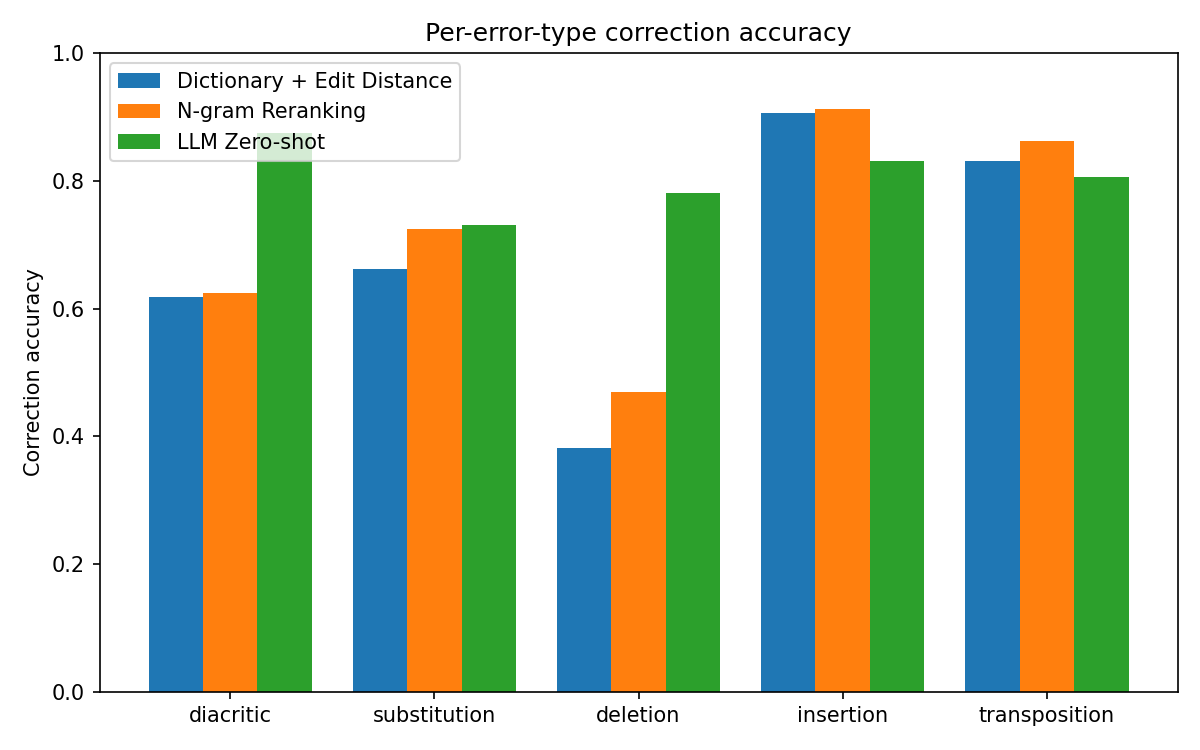
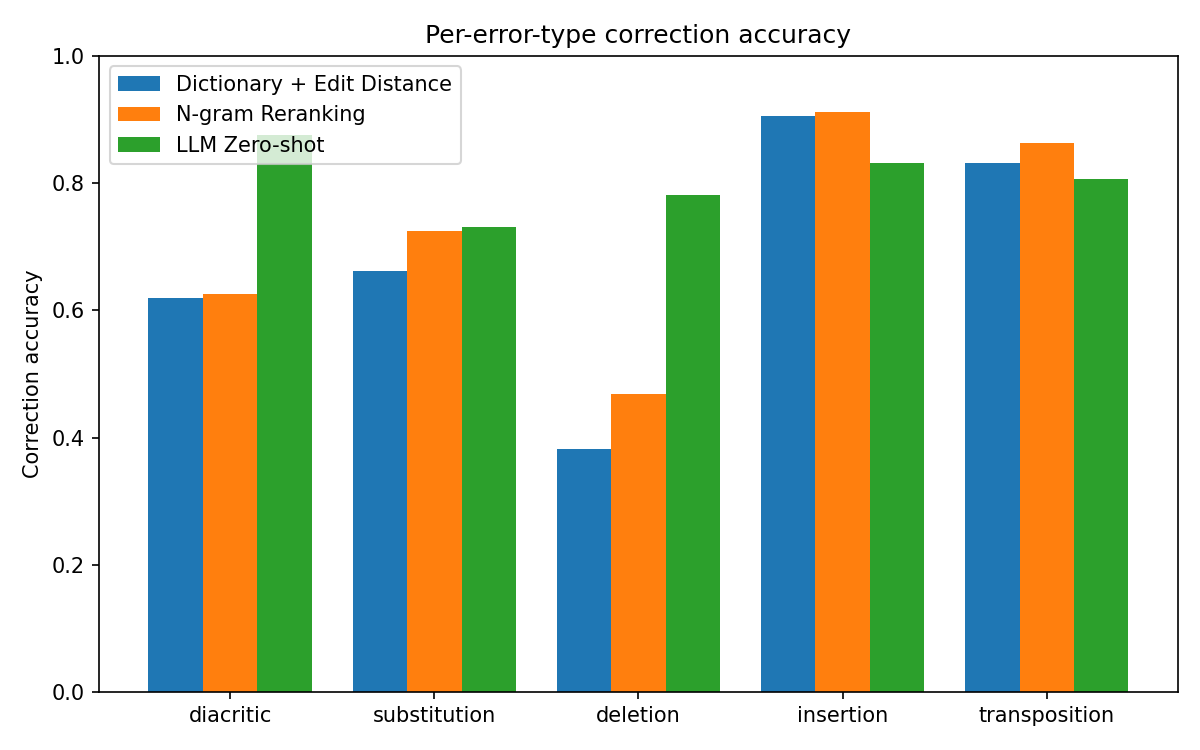
fix(*): clean up

diff --git a/results/error_analysis.md b/results/error_analysis.md
@@ -1,0 +1,303 @@
+# Error analysis
+
+## (a) Cases only the LLM got right
+
+**Example 1**
+
+- corrupted: `Naime, kao metamorfmafus, ona je mogla da promeni svoj fizički izgled po volji, bez potrebe da koristi napitak lii čarolije.`
+- original: `Naime, kao metamorfmafus, ona je mogla da promeni svoj fizički izgled po volji, bez potrebe da koristi napitak ili čarolije.`
+- error: `lii` → should be `ili` (type: transposition)
+- LLM predicted: `Naime, kao metamorfmafs, ona je mogla da promeni svoj fizički izgled po volji, bez potrebe da koristi napitak ili čarolije.`
+
+**Example 2**
+
+- corrupted: `Postojalo je od VI do X veka, kada je ušlo u sastavb jedinstvene Engleske države.`
+- original: `Postojalo je od VI do X veka, kada je ušlo u sastav jedinstvene Engleske države.`
+- error: `sastavb` → should be `sastav` (type: insertion)
+- LLM predicted: `Postojalo je od VI do X veka, kada je ušlo u sastav jedinstvene Engleske države.`
+
+**Example 3**
+
+- corrupted: `Stalno savetuje Ivana da ne ini greške.`
+- original: `Stalno savetuje Ivana da ne čini greške.`
+- error: `ini` → should be `čini` (type: deletion)
+- LLM predicted: `Stalno savetuje Ivana da ne čini greške.`
+
+**Example 4**
+
+- corrupted: `Molekul glukoze zasladjuje rastvor, a dijelovi glukoznih lanaca daju viskoznu konzistenciju.`
+- original: `Molekul glukoze zaslađuje rastvor, a dijelovi glukoznih lanaca daju viskoznu konzistenciju.`
+- error: `zasladjuje` → should be `zaslađuje` (type: diacritic)
+- LLM predicted: `Molekul glukoze zaslađuje rastvor, a dijelovi glukoznih lanaca daju viskoznu konzistenciju.`
+
+**Example 5**
+
+- corrupted: `Anastasija je sledila svog sina, međutm uskoro se povukla iz javnog života i postala je opatica u Admont opatiji gde je ostala sve do svoje smrti.`
+- original: `Anastasija je sledila svog sina, međutim uskoro se povukla iz javnog života i postala je opatica u Admont opatiji gde je ostala sve do svoje smrti.`
+- error: `međutm` → should be `međutim` (type: deletion)
+- LLM predicted: `Anastasija je sledila svog sina, međutim uskoro se povukla iz javnog života i postala je opatica u Admont opatiji, gde je ostala sve do svoje smrti.`
+
+**Example 6**
+
+- corrupted: `Nakon rata se u seno vratilo manje od stotinu ljudi, uglavnom starijih osoba.`
+- original: `Nakon rata se u selo vratilo manje od stotinu ljudi, uglavnom starijih osoba.`
+- error: `seno` → should be `selo` (type: substitution)
+- LLM predicted: `Nakon rata se u selo vratilo manje od stotinu ljudi, uglavnom starijih osoba.`
+
+**Example 7**
+
+- corrupted: `Marina Nikola je medju prvima 1927.`
+- original: `Marina Nikola je među prvima 1927.`
+- error: `medju` → should be `među` (type: diacritic)
+- LLM predicted: `Marina Nikola je među prvimama 1927.`
+
+**Example 8**
+
+- corrupted: `Tipične analize su analize prolaznih podataka za pravljenje upotrebno-definisanih lanaca, zavisnih analiza, alijas analiza, pokaznih analiza, iskejp analiza ird.`
+- original: `Tipične analize su analize prolaznih podataka za pravljenje upotrebno-definisanih lanaca, zavisnih analiza, alijas analiza, pokaznih analiza, iskejp analiza itd.`
+- error: `ird` → should be `itd` (type: substitution)
+- LLM predicted: `Tipične analize su analize prolaznih podataka za pravljenje upotrebno-definisanih lanaca, zavisnih analiza, alijas analiza, pokaznih analiza, escape analiza itd.`
+
+**Example 9**
+
+- corrupted: `Potom se tesko razboleo i celo telo mu je bilo pokriveno ranama od temena do tabana.`
+- original: `Potom se teško razboleo i celo telo mu je bilo pokriveno ranama od temena do tabana.`
+- error: `tesko` → should be `teško` (type: diacritic)
+- LLM predicted: `Potom se teško razboleo i celo telo mu je bilo pokriveno ranama od temena do tabana.`
+
+**Example 10**
+
+- corrupted: `Alat je prvobitno nosio ime Worldcraft, dok ga je Ben Moris nezavisno razvijao, pre nego sto ga je Valv otkupio.`
+- original: `Alat je prvobitno nosio ime Worldcraft, dok ga je Ben Moris nezavisno razvijao, pre nego što ga je Valv otkupio.`
+- error: `sto` → should be `što` (type: diacritic)
+- LLM predicted: `Alat je prvobitno nosio ime Worldcraft, dok ga je Ben Moris nezavisno razvijao, pre nego što ga je Valv otkupio.`
+
+
+## (b) Cases the n-gram model fixed but Approach 1 (Norvig) got wrong
+
+**Example 1**
+
+- corrupted: `Naziv Stari Vlab se odnosi na Latine, a ne na Vlahe (narod).`
+- original: `Naziv Stari Vlah se odnosi na Latine, a ne na Vlahe (narod).`
+- error: `Vlab` → should be `Vlah` (type: substitution)
+- Norvig predicted: `Slab`
+- N-gram predicted: `Vlah`
+
+**Example 2**
+
+- corrupted: `Grnčarija ovog porekla ima nesumnjivu estetsku vrednost, a posebno sudovi u oblikg životinjskih figura.`
+- original: `Grnčarija ovog porekla ima nesumnjivu estetsku vrednost, a posebno sudovi u obliku životinjskih figura.`
+- error: `oblikg` → should be `obliku` (type: substitution)
+- Norvig predicted: `oblik`
+- N-gram predicted: `obliku`
+
+**Example 3**
+
+- corrupted: `Ustanova je počela sa radm 2. oktobra 1969.`
+- original: `Ustanova je počela sa radom 2. oktobra 1969.`
+- error: `radm` → should be `radom` (type: deletion)
+- Norvig predicted: `radi`
+- N-gram predicted: `radom`
+
+**Example 4**
+
+- corrupted: `Uglavnom je sivo-plave boje, dok su krila smeđa sa crim mrljama.`
+- original: `Uglavnom je sivo-plave boje, dok su krila smeđa sa crnim mrljama.`
+- error: `crim` → should be `crnim` (type: deletion)
+- Norvig predicted: `rim`
+- N-gram predicted: `crnim`
+
+**Example 5**
+
+- corrupted: `Precesija je tendencija žiroskopa da se zaokrene pod praim uglom prema ulaznoj sili poremećaja.`
+- original: `Precesija je tendencija žiroskopa da se zaokrene pod pravim uglom prema ulaznoj sili poremećaja.`
+- error: `praim` → should be `pravim` (type: deletion)
+- Norvig predicted: `prvim`
+- N-gram predicted: `pravim`
+
+**Example 6**
+
+- corrupted: `Međutim, ukradeni instrumenti se često budu pronađeni, nakon što su vođeni kao nestali duig niz godina.`
+- original: `Međutim, ukradeni instrumenti se često budu pronađeni, nakon što su vođeni kao nestali dugi niz godina.`
+- error: `duig` → should be `dugi` (type: transposition)
+- Norvig predicted: `dug`
+- N-gram predicted: `dugi`
+
+**Example 7**
+
+- corrupted: `Nauka koja proučava vrednosti naziav se aksiologija.`
+- original: `Nauka koja proučava vrednosti naziva se aksiologija.`
+- error: `naziav` → should be `naziva` (type: transposition)
+- Norvig predicted: `naziv`
+- N-gram predicted: `naziva`
+
+**Example 8**
+
+- corrupted: `Menjanje nalepnica u Braziu na Svetskom prvenstvu 2018.`
+- original: `Menjanje nalepnica u Brazilu na Svetskom prvenstvu 2018.`
+- error: `Braziu` → should be `Brazilu` (type: deletion)
+- Norvig predicted: `Brazil`
+- N-gram predicted: `Brazilu`
+
+**Example 9**
+
+- corrupted: `Teo postaje pravi frajet.`
+- original: `Teo postaje pravi frajer.`
+- error: `frajet` → should be `frajer` (type: substitution)
+- Norvig predicted: `frajt`
+- N-gram predicted: `frajer`
+
+**Example 10**
+
+- corrupted: `Da bi se prilagodila ovim promenama, birokratija je bila proširena i raznovrsna, da bi imala mnogo veću ulogu u upravj carstva.`
+- original: `Da bi se prilagodila ovim promenama, birokratija je bila proširena i raznovrsna, da bi imala mnogo veću ulogu u upravi carstva.`
+- error: `upravj` → should be `upravi` (type: substitution)
+- Norvig predicted: `upravo`
+- N-gram predicted: `upravi`
+
+
+## (c) Cases everything failed on
+
+**Example 1**
+
+- corrupted: `Bio je i potpredsednik tv.`
+- original: `Bio je i potpredsednik tzv.`
+- error: `tv` → should be `tzv` (type: deletion)
+- predictions: norvig=`(unchanged)`, ngram=`(unchanged)`, llm=`(unchanged)`
+
+**Example 2**
+
+- corrupted: `Osnovni zahtevi u Nemačkoj ticali su se garantija prava građama, donošenja ustava i ujedinjenja Nemačke na federalnim osnovama.`
+- original: `Osnovni zahtevi u Nemačkoj ticali su se garantija prava građana, donošenja ustava i ujedinjenja Nemačke na federalnim osnovama.`
+- error: `građama` → should be `građana` (type: substitution)
+- predictions: norvig=`(unchanged)`, ngram=`(unchanged)`, llm=`građanima`
+
+**Example 3**
+
+- corrupted: `Ova dvojica slikara, potpuno različitih umetničkih shvatanja, prvi put su se sreli kao saradnici na izradi ikona za duvošku crkvu.`
+- original: `Ova dvojica slikara, potpuno različitih umetničkih shvatanja, prvi put su se sreli kao saradnici na izradi ikona za divošku crkvu.`
+- error: `duvošku` → should be `divošku` (type: substitution)
+- predictions: norvig=`devojku`, ngram=`duboku`, llm=``
+
+**Example 4**
+
+- corrupted: `Takmičarke čija su iena podebljana učestvuju na EP 1996.`
+- original: `Takmičarke čija su imena podebljana učestvuju na EP 1996.`
+- error: `iena` → should be `imena` (type: deletion)
+- predictions: norvig=`(unchanged)`, ngram=`(unchanged)`, llm=`jedna`
+
+**Example 5**
+
+- corrupted: `Godine 2001, objavljen je album Pišanje uz vetar na kome su se našle pesme kao što su Sbin je lud, Ljubav ovde više ne stanuje, Daj mi lovu itd.`
+- original: `Godine 2001, objavljen je album Pišanje uz vetar na kome su se našle pesme kao što su Srbin je lud, Ljubav ovde više ne stanuje, Daj mi lovu itd.`
+- error: `Sbin` → should be `Srbin` (type: deletion)
+- predictions: norvig=`Sin`, ngram=`Sin`, llm=`Šbin`
+
+**Example 6**
+
+- corrupted: `Radi honorarno u butiku obuće Gles sbiper.`
+- original: `Radi honorarno u butiku obuće Gles sliper.`
+- error: `sbiper` → should be `sliper` (type: substitution)
+- predictions: norvig=`skiper`, ngram=`biper`, llm=`Schuhber`
+
+**Example 7**
+
+- corrupted: `Bend je počeo sa svirkom i onda se iz pozadine, kao deus ex machna cuo bubanj.`
+- original: `Bend je počeo sa svirkom i onda se iz pozadine, kao deus ex machna čuo bubanj.`
+- error: `cuo` → should be `čuo` (type: diacritic)
+- predictions: norvig=`(unchanged)`, ngram=`(unchanged)`, llm=``
+
+**Example 8**
+
+- corrupted: `Takođe se i pominje „pop sin Cujica”, a takođe i „`
+- original: `Takođe se i pominje „pop sin Vujica”, a takođe i „`
+- error: `Cujica` → should be `Vujica` (type: substitution)
+- predictions: norvig=`Bujica`, ngram=`Šujica`, llm=`(unchanged)`
+
+**Example 9**
+
+- corrupted: `Potenciometar radi na principu uravnoteženja nepoznatog napona nasuprot poznatom naponu u osnom spoju.`
+- original: `Potenciometar radi na principu uravnoteženja nepoznatog napona nasuprot poznatom naponu u mosnom spoju.`
+- error: `osnom` → should be `mosnom` (type: deletion)
+- predictions: norvig=`(unchanged)`, ngram=`(unchanged)`, llm=`(unchanged)`
+
+**Example 10**
+
+- corrupted: `U slučaju da selekcija Rusije kao domaćin narednog turnira zauzme jednu od dve poslednje pozicije umesto njih u nizi rang takmičenja ispala bi 14. plasirana selekcija.`
+- original: `U slučaju da selekcija Rusije kao domaćin narednog turnira zauzme jednu od dve poslednje pozicije umesto njih u niži rang takmičenja ispala bi 14. plasirana selekcija.`
+- error: `nizi` → should be `niži` (type: diacritic)
+- predictions: norvig=`(unchanged)`, ngram=`(unchanged)`, llm=`nizu`
+
+
+## (d) LLM overcorrections (changed an originally-correct word)
+
+**Example 1**
+
+- corrupted: `Naime, kao metamorfmafus, ona je mogla da promeni svoj fizički izgled po volji, bez potrebe da koristi napitak lii čarolije.`
+- original: `Naime, kao metamorfmafus, ona je mogla da promeni svoj fizički izgled po volji, bez potrebe da koristi napitak ili čarolije.`
+- LLM changed correct word: `metamorfmafus` → `metamorfmafs`
+- LLM predicted: `Naime, kao metamorfmafs, ona je mogla da promeni svoj fizički izgled po volji, bez potrebe da koristi napitak ili čarolije.`
+
+**Example 2**
+
+- corrupted: `Osnovni zahtevi u Nemačkoj ticali su se garantija prava građama, donošenja ustava i ujedinjenja Nemačke na federalnim osnovama.`
+- original: `Osnovni zahtevi u Nemačkoj ticali su se garantija prava građana, donošenja ustava i ujedinjenja Nemačke na federalnim osnovama.`
+- LLM changed correct word: `garantija` → `garancija`
+- LLM predicted: `Osnovni zahtevi u Nemačkoj ticali su se garancija prava građanima, donošenja ustava i ujedinjenja Nemačke na federalnim osnovama.`
+
+**Example 3**
+
+- corrupted: `Sada većina brodova ima unutrašnji motor s unutrašnjim sagorijevanjem koristeći blqago refinirani tip petroleja zvani bunker gorivo.`
+- original: `Sada većina brodova ima unutrašnji motor s unutrašnjim sagorijevanjem koristeći blago refinirani tip petroleja zvani bunker gorivo.`
+- LLM changed correct word: `koristeći` → `koji koristi blago`
+- LLM predicted: `Sada većina brodova ima unutrašnji motor s unutrašnjim sagorijevanjem koji koristi blago refinirani tip petroleja zvan bunker gorivo.`
+
+**Example 4**
+
+- corrupted: `Njihovo stavljanje u promet uskalđeno je sa Zakonom o biocidnim proizvodima, čije sprovođenje kontroliušu Agencije za hemikalije zemalja koje su taj zakon donele.`
+- original: `Njihovo stavljanje u promet uskalđeno je sa Zakonom o biocidnim proizvodima, čije sprovođenje kontrolišu Agencije za hemikalije zemalja koje su taj zakon donele.`
+- LLM changed correct word: `uskalđeno` → `usklađeno`
+- LLM predicted: `Njihovo stavljanje u promet usklađeno je sa Zakonom o biocidnim proizvodima, čije sprovođenje kontrolišu Agencije za hemikalije zemalja koje su taj zakon donele.`
+
+**Example 5**
+
+- corrupted: `Poslednja faza bitke odigrala se u podnožiju brda, u dolini reke Morave, gde su se Srbi utvridli u dolini uz reku sa namerom da kontrolišu prelaze na reci.`
+- original: `Poslednja faza bitke odigrala se u podnožiju brda, u dolini reke Morave, gde su se Srbi utvrdili u dolini uz reku sa namerom da kontrolišu prelaze na reci.`
+- LLM changed correct word: `podnožiju` → `podnožju`
+- LLM predicted: `Poslednja faza bitke odigrala se u podnožju brda, u dolini reke Morave, gde su se Srbi utvrdili u dolini uz reku sa namerom da kontrolišu prelaze na reci.`
+
+**Example 6**
+
+- corrupted: `Razvijač Afdvanced Warfare-a je kompanija Sledgehamer gejms.`
+- original: `Razvijač Advanced Warfare-a je kompanija Sledgehamer gejms.`
+- LLM changed correct word: `Sledgehamer` → `Sledgehammer`
+- LLM predicted: `Razvijač Advanced Warfare-a je kompanija Sledgehammer Games.`
+
+**Example 7**
+
+- corrupted: `Marina Nikola je medju prvima 1927.`
+- original: `Marina Nikola je među prvima 1927.`
+- LLM changed correct word: `prvima` → `prvimama`
+- LLM predicted: `Marina Nikola je među prvimama 1927.`
+
+**Example 8**
+
+- corrupted: `Tipične analize su analize prolaznih podataka za pravljenje upotrebno-definisanih lanaca, zavisnih analiza, alijas analiza, pokaznih analiza, iskejp analiza ird.`
+- original: `Tipične analize su analize prolaznih podataka za pravljenje upotrebno-definisanih lanaca, zavisnih analiza, alijas analiza, pokaznih analiza, iskejp analiza itd.`
+- LLM changed correct word: `iskejp` → `escape`
+- LLM predicted: `Tipične analize su analize prolaznih podataka za pravljenje upotrebno-definisanih lanaca, zavisnih analiza, alijas analiza, pokaznih analiza, escape analiza itd.`
+
+**Example 9**
+
+- corrupted: `U mestu je pravoslavna Vazneenska crkva, pri kojoj služe parosi Toma Bogdanović i Toma Lazić.`
+- original: `U mestu je pravoslavna Vaznesenska crkva, pri kojoj služe parosi Toma Bogdanović i Toma Lazić.`
+- LLM changed correct word: `parosi` → `parohi`
+- LLM predicted: `U mestu je pravoslavna Vaznesenska crkva, pri kojoj služe parohi Toma Bogdanović i Toma Lazić.`
+
+**Example 10**
+
+- corrupted: `Na konkurs su primani laki potpnuo metalni avioni.`
+- original: `Na konkurs su primani laki potpuno metalni avioni.`
+- LLM changed correct word: `primani` → `primljeni`
+- LLM predicted: `Na konkurs su primljeni laki potpuni metalni avioni.`
+

diff --git a/results/summary.md b/results/summary.md
@@ -1,0 +1,39 @@
+# Evaluation summary
+
+Common test subset used for comparison: 800 sentences (every approach below is scored on this exact same subset).
+
+## Overall metrics
+
+| approach                   |   detection_recall |   correction_accuracy |   false_positive_rate |   sentences_per_sec |
+|:---------------------------|-------------------:|----------------------:|----------------------:|--------------------:|
+| Dictionary + Edit Distance |              0.796 |                 0.680 |                 0.017 |              94.980 |
+| N-gram Reranking           |              0.796 |                 0.719 |                 0.017 |              94.650 |
+| LLM Zero-shot              |              0.964 |                 0.805 |                 0.024 |               0.230 |
+
+## Per-error-type correction accuracy
+
+| approach                   |   acc_diacritic |   acc_substitution |   acc_deletion |   acc_insertion |   acc_transposition |
+|:---------------------------|----------------:|-------------------:|---------------:|----------------:|--------------------:|
+| Dictionary + Edit Distance |           0.619 |              0.662 |          0.381 |           0.906 |               0.831 |
+| N-gram Reranking           |           0.625 |              0.725 |          0.469 |           0.912 |               0.863 |
+| LLM Zero-shot              |           0.875 |              0.731 |          0.781 |           0.831 |               0.806 |
+
+## Supplementary: each approach's own full coverage
+
+Not a like-for-like comparison (different sample sizes) - included for reference only. See the common-subset table above for the fair comparison.
+
+| approach                   |   n_sentences |   detection_recall |   correction_accuracy |   false_positive_rate |   sentences_per_sec |
+|:---------------------------|--------------:|-------------------:|----------------------:|----------------------:|--------------------:|
+| Dictionary + Edit Distance |          2000 |              0.800 |                 0.689 |                 0.019 |              94.980 |
+| N-gram Reranking           |          2000 |              0.800 |                 0.728 |                 0.019 |              94.650 |
+| LLM Zero-shot              |           800 |              0.964 |                 0.805 |                 0.024 |               0.230 |
+
+## Pairwise significance (exact McNemar test on correction accuracy)
+
+Paired test over the same common-subset errors: `a_only_correct` / `b_only_correct` are errors only one approach got right (discordant pairs); p < 0.05 means the accuracy difference is unlikely to be chance.
+
+| approach_a                 | approach_b       |   a_only_correct |   b_only_correct |   p_value | significant_at_0.05   |
+|:---------------------------|:-----------------|-----------------:|-----------------:|----------:|:----------------------|
+| Dictionary + Edit Distance | N-gram Reranking |                7 |               38 |    0.0000 | True                  |
+| Dictionary + Edit Distance | LLM Zero-shot    |               90 |              190 |    0.0000 | True                  |
+| N-gram Reranking           | LLM Zero-shot    |               97 |              166 |    0.0000 | True                  |

diff --git a/README.md b/README.md
@@ -1,0 +1,6 @@
+# Ispravljanje grešaka u tekstu na srpskom jeziku
+
+Poređenje tri pristupa za ispravljanje pravopisnih grešaka na srpskom: rečnik + edit rastojanje, n-gram jezički model i LLM (zero-shot).
+Instalacija: `pip install -r requirements.txt`, uz `GROQ_API_KEY` u `.env` za LLM korak.
+Skripte se pokreću redom, `scripts/01_...py` do `scripts/07_...py`, svaka predstavlja jedan korak (priprema korpusa, generisanje test skupa, tri pristupa, evaluacija, analiza grešaka).
+Rezultati (tabele, grafici, kvalitativna analiza) su u `results/`.